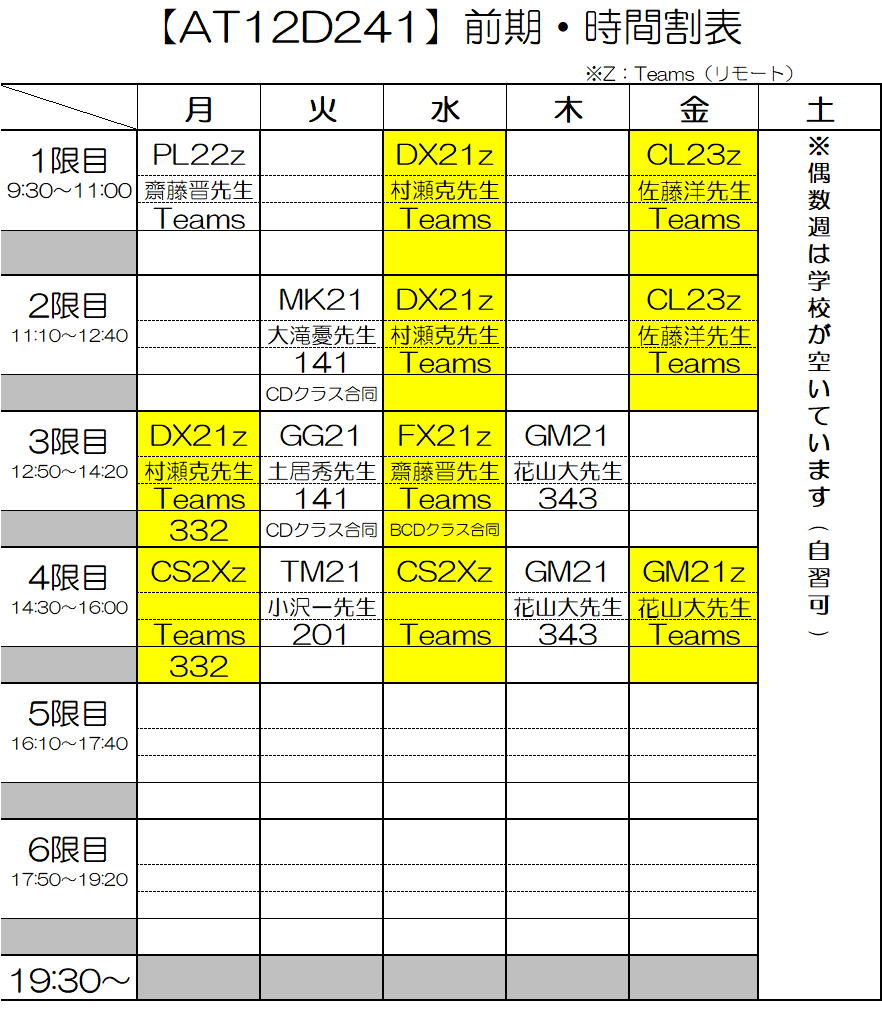
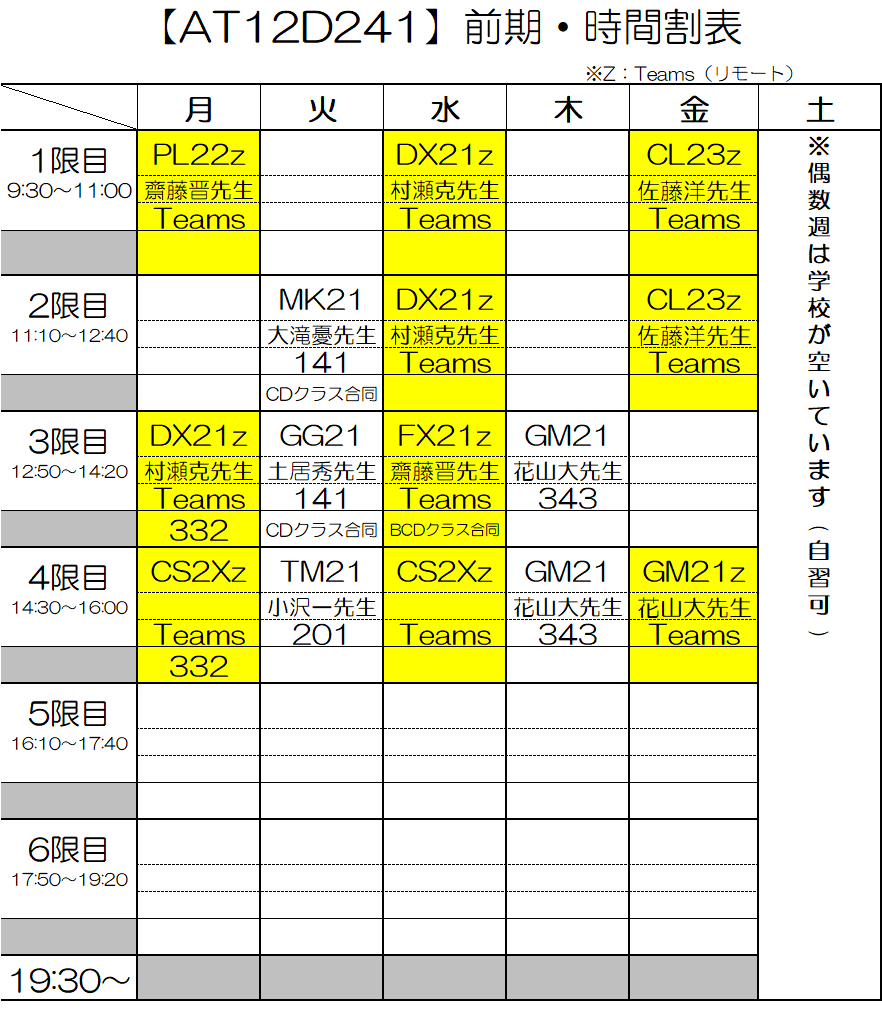
座席表をスライド式に変更
ついでに時間割を修正

Changed region(s): [[0.1531, 0.1236, 0.3061, 0.278]]

diff --git a/index.html b/index.html
@@ -144,6 +144,34 @@
       justify-content: space-between;
       align-items: center;
     }
+    .slider {
+      position: relative;
+      display: flex;
+      align-items: center;
+      justify-content: center;
+    }
+    .slide-btn {
+      position: absolute;
+      top: 50%;
+      transform: translateY(-50%);
+      background: var(--accent);
+      color: white;
+      border: none;
+      padding: 10px 14px;
+      border-radius: 50%;
+      cursor: pointer;
+      font-size: 18px;
+      opacity: 0.8;
+    }
+    .slide-btn:hover {
+      opacity: 1;
+    }
+    .slide-btn.left {
+      left: 10px;
+    }
+    .slide-btn.right {
+      right: 10px;
+    }
   </style>
 </head>
 <body>
@@ -199,8 +227,10 @@
 
         <section class="card">
           <h2>座席表</h2>
-          <div class="image-box">
-            <img src="https://placehold.co/900x1200?text=%E5%BA%A7%E5%B8%AD%E8%A1%A8%E7%94%BB%E5%83%8F%E3%82%92%E5%85%A5%E3%82%8C%E3%82%8B" alt="座席表" />
+          <div class="image-box slider">
+            <button class="slide-btn left" onclick="prevSlide()">◀</button>
+            <img id="seatsImg" src="https://placehold.co/900x1200" alt="座席表">
+            <button class="slide-btn right" onclick="nextSlide()">▶</button>
           </div>
           <p class="muted">画像ファイル名を seats.jpg などに変えて差し替えてください。</p>
         </section>
@@ -233,7 +263,10 @@
           ""
         ],
         timetableImage: "timetable-at12b.png",
-        seatsImage: "seats-b.jpg",
+        seatsImage: "seats-at12b-141.png",
+                    "seats-at12b-284.png",
+                    "seats-at12b-285.png",
+                    "seats-at12b-343.png",
         calendarUrl: COMMON_CALENDAR_URL,
       },
       "AT12C241": {
@@ -245,7 +278,10 @@
           ""
         ],
         timetableImage: "timetable-at12c.png",
-        seatsImage: "seats-c.jpg",
+        seatsImage: "seats-at12c-141.png",
+                    "seats-at12c-332.png",
+                    "seats-at12c-335.png",
+                    "seats-at12c-343.png",
         calendarUrl: COMMON_CALENDAR_URL,
       },
       "AT12D241": {
@@ -257,7 +293,10 @@
           ""
         ],
         timetableImage: "timetable-at12d.png",
-        seatsImage: "seats-d.jpg",
+        seatsImage: "seats-at12d-141.png",
+                    "seats-at12d-201.png",
+                    "seats-at12d-332.png",
+                    "seats-at12d-343.png",
         calendarUrl: COMMON_CALENDAR_URL,
       },
     };
@@ -279,9 +318,10 @@
       const images = document.querySelectorAll(".image-box img");
       images[0].src = classData.timetableImage;
       images[0].alt = `${classData.title}の時間割`;
-      images[1].src = classData.seatsImage;
+      seatImages = classData.seatImages;
+      currentSlide = 0;
+      updateSlide();
       images[1].alt = `${classData.title}の座席表`;
-
       const interviewButton = document.querySelector(".card a.button");
       interviewButton.href = classData.interviewUrl;
     }
@@ -315,6 +355,23 @@
       const savedClass = sessionStorage.getItem("selectedClass");
       if (savedClass && CLASS_CONFIG[savedClass]) {
         unlockSite(savedClass);
+      }
+      let currentSlide = 0;
+      let seatImages = [];
+
+      function updateSlide() {
+        const img = document.getElementById("seatsImg");
+        if (seatImages.length > 0) {
+          img.src = seatImages[currentSlide];
+        }
+      }
+      function nextSlide() {
+        currentSlide = (currentSlide + 1) % seatImages.length;
+        updateSlide();
+      }
+      function prevSlide() {
+        currentSlide = (currentSlide - 1 + seatImages.length) % seatImages.length;
+        updateSlide();
       }
     });
   </script>
